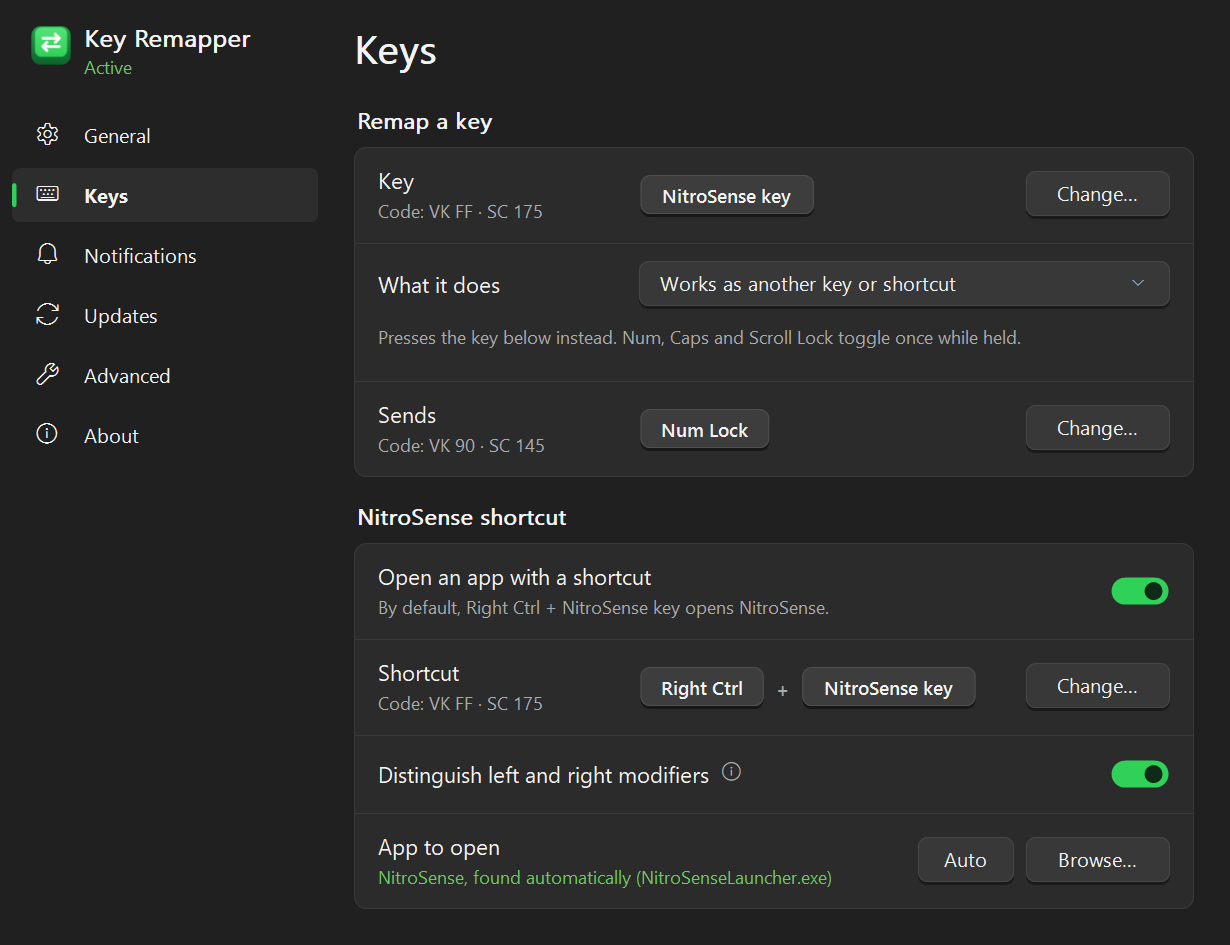
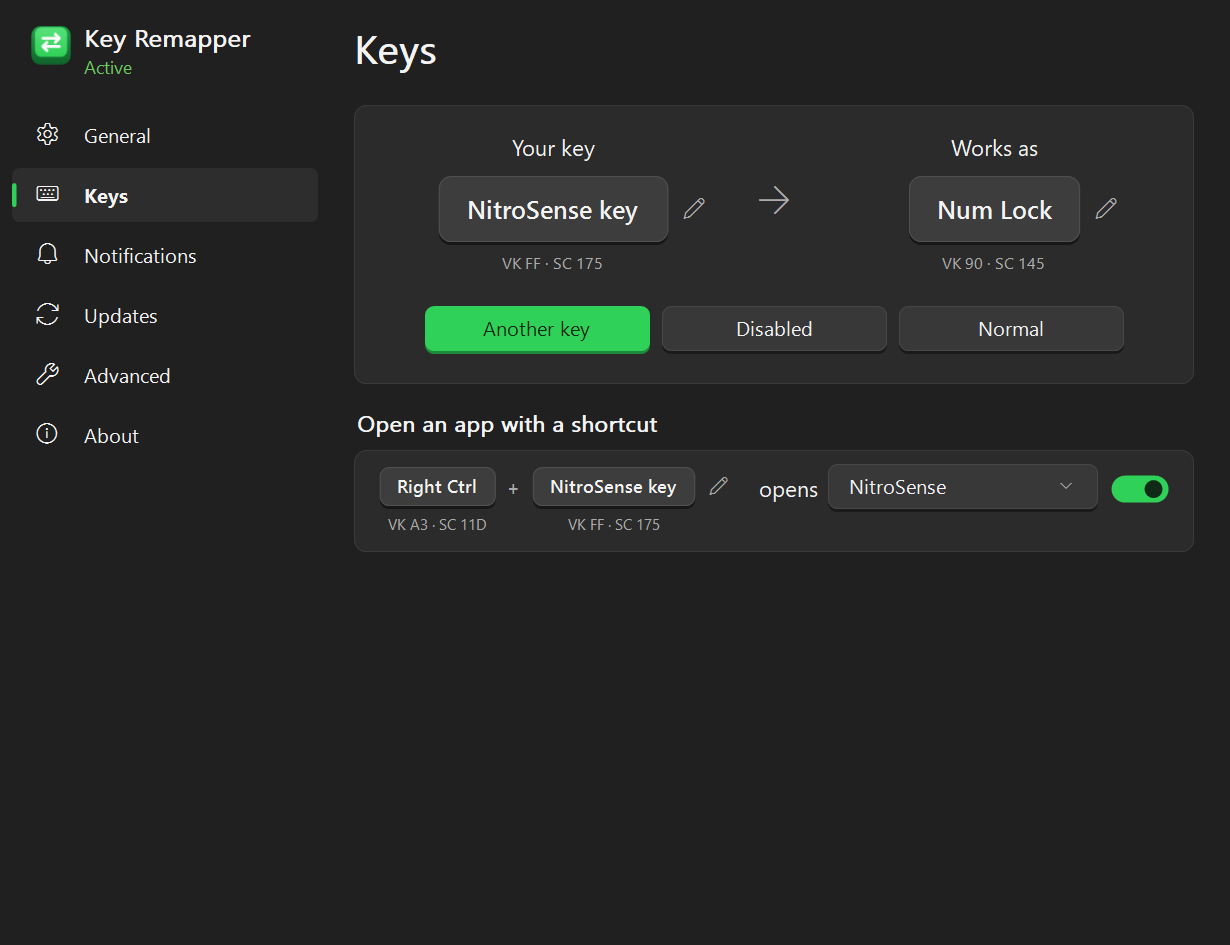
Release 0.5.8: key codes under each keycap, new screenshots

diff --git a/CHANGELOG.md b/CHANGELOG.md
@@ -4,7 +4,7 @@ All notable changes to this project are documented here. The format is based
 on [Keep a Changelog](https://keepachangelog.com/en/1.1.0/) and the project
 uses [Semantic Versioning](https://semver.org/).
 
-## [Unreleased]
+## [0.5.8] - 2026-10-25
 
 ### Changed
 
@@ -12,8 +12,8 @@ uses [Semantic Versioning](https://semver.org/).
   *Works as*, as big keycaps you click to change (a pencil shows they can be
   changed), and three buttons for what the key does: *Another key*,
   *Disabled*, *Normal*. Choosing *Another key* without a key listens for it
-  right away. No more descriptions or key codes on the page: the codes show
-  in the message when you pick a key, and in the log.
+  right away. No more description lines: each keycap has its code in small
+  print under it (also for each key of a shortcut), and the log has them too.
 - The shortcut section is now **Open an app with a shortcut**, in one line:
   the shortcut, *opens*, the app (a drop-down list: NitroSense found
   automatically, your app, or *Choose another app…*), and its switch.
@@ -214,6 +214,7 @@ First public release.
 - Compiled `Win11KeyRemapper.exe` built by GitHub Actions, with SHA-256 sums
   and optional VirusTotal scan links in the release notes.
 
+[0.5.8]: https://github.com/Ricardokraus/Win11-Key-Remapper-Acer-Nitrosense/releases/tag/v0.5.8
 [0.5.7]: https://github.com/Ricardokraus/Win11-Key-Remapper-Acer-Nitrosense/releases/tag/v0.5.7
 [0.5.5]: https://github.com/Ricardokraus/Win11-Key-Remapper-Acer-Nitrosense/releases/tag/v0.5.5
 [0.5.4]: https://github.com/Ricardokraus/Win11-Key-Remapper-Acer-Nitrosense/releases/tag/v0.5.4

diff --git a/docs/TESTED-MODELS.md b/docs/TESTED-MODELS.md
@@ -3,8 +3,8 @@
 [← Back to the README](../README.md)
 
 Laptops and keyboards the app has been tried on. The codes are the ones the
-settings window shows when you pick a key (*Keys* → click *Your key*, then press
-the key: the codes are in the message at the bottom of the window).
+settings window shows under each key (*Keys* → click the key under *Your key*,
+then press yours).
 
 | Laptop | Windows | Codes shown in the settings window | Status |
 |---|---|---|---|
@@ -26,8 +26,7 @@ models get fixed. It takes two minutes:
 
 4. Copy the codes of each special key you tried (the NitroSense key,
    <kbd>Fn</kbd>+<kbd>Win</kbd>…): in the settings window, *Keys* → click the key
-   under *Your key*, press the key, and the codes appear in the message at the
-   bottom of the window.
+   under *Your key*, press the key, and its codes appear under it.
 
 5. Add anything odd you noticed and click **Create**.
 

diff --git a/README.md b/README.md
@@ -117,7 +117,7 @@ double-click `src\Win11KeyRemapper.ahk`; it's the same app.
 <p align="center">
   <picture>
     <source media="(prefers-color-scheme: dark)" srcset="assets/screenshot-dark.png">
-    <img src="assets/screenshot-light.png" alt="The settings window, Keys section: the key to remap, what it does and the shortcut that opens NitroSense" width="760">
+    <img src="assets/screenshot-light.png" alt="The settings window, Keys section: the NitroSense key works as Num Lock, with buttons for another key, disabled or normal, and Right Ctrl + NitroSense key opens NitroSense" width="760">
   </picture>
 </p>
 
